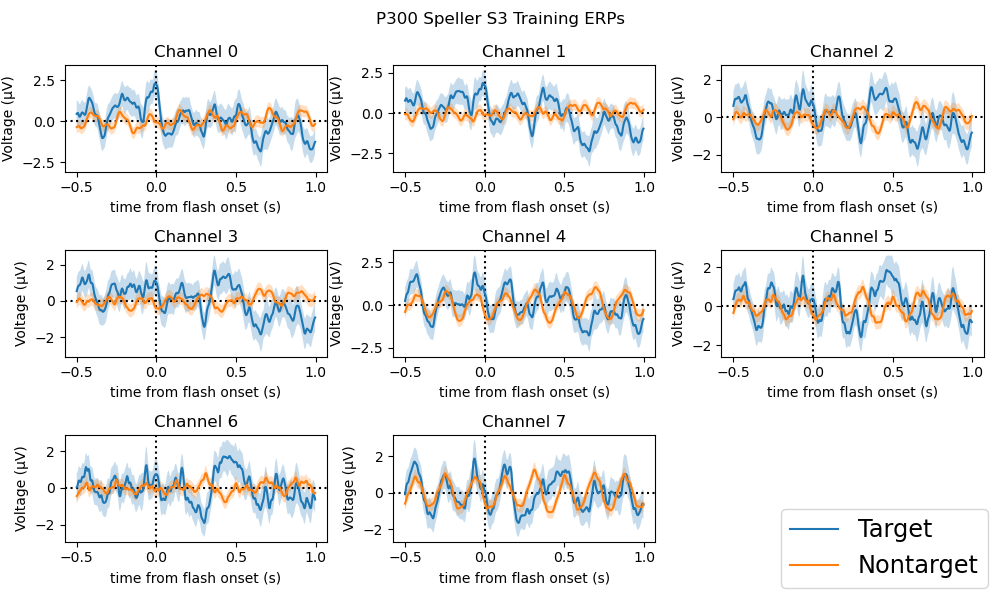
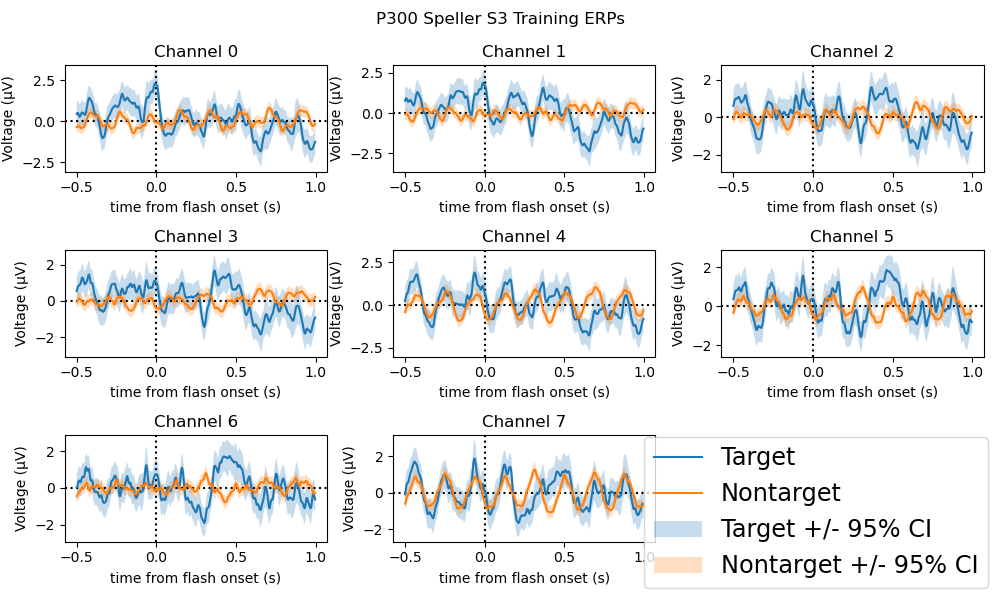
Additional legend labels

diff --git a/plot_p300_data.py b/plot_p300_data.py
@@ -74,19 +74,23 @@ def plot_confidence_intervals(eeg_epochs, erp_times, target_erp, nontarget_erp, 
         channel_plot.axvline(0, color='black', linestyle='dotted')
         channel_plot.axhline(0, color='black', linestyle='dotted')
         
-        # plot target and nontarget erp data in the subplot
+        # plot ERP data in the subplot
         target_handle, = channel_plot.plot(erp_times, target_erp_transpose[channel_index])
+        
         nontarget_handle, = channel_plot.plot(erp_times, nontarget_erp_transpose[channel_index])
         
         # plot confidence intervals
-        channel_plot.fill_between(erp_times,target_erp_transpose[channel_index] - 2 * target_standard_error, target_erp_transpose[channel_index] + 2 * target_standard_error, alpha=0.25)
+        target_confidence_interval_handle = channel_plot.fill_between(erp_times,target_erp_transpose[channel_index] - 2 * target_standard_error, target_erp_transpose[channel_index] + 2 * target_standard_error, alpha=0.25)
         
-        channel_plot.fill_between(erp_times,nontarget_erp_transpose[channel_index] - 2 * nontarget_standard_error, nontarget_erp_transpose[channel_index] + 2 * nontarget_standard_error, alpha=0.25)
+        nontarget_confidence_interval_handle = channel_plot.fill_between(erp_times,nontarget_erp_transpose[channel_index] - 2 * nontarget_standard_error, nontarget_erp_transpose[channel_index] + 2 * nontarget_standard_error, alpha=0.25)
         
         # workaround for legend to only display each entry once
         if channel_index == 0:
             target_handle.set_label('Target')
             nontarget_handle.set_label('Nontarget')
+            target_confidence_interval_handle.set_label('Target +/- 95% CI')
+            nontarget_confidence_interval_handle.set_label('Nontarget +/- 95% CI')
+        
         
         # label each plot's axes and channel number
         channel_plot.set_title(f'Channel {channel_index}')
@@ -196,11 +200,6 @@ def plot_false_discovery_rate(eeg_epochs, erp_times, target_erp, nontarget_erp, 
         target_handle, = channel_plot.plot(erp_times, target_erp_transpose[channel_index])
         nontarget_handle, = channel_plot.plot(erp_times, nontarget_erp_transpose[channel_index])
         
-        # plot confidence intervals
-        channel_plot.fill_between(erp_times,target_erp_transpose[channel_index] - 2 * target_standard_error, target_erp_transpose[channel_index] + 2 * target_standard_error, alpha=0.25)
-        
-        channel_plot.fill_between(erp_times,nontarget_erp_transpose[channel_index] - 2 * nontarget_standard_error, nontarget_erp_transpose[channel_index] + 2 * nontarget_standard_error, alpha=0.25)
-        
         # generate times to plot
         is_significant = np.array(np.where(corrected_p_values[0, :, channel_index] == 1))
         significant_times = []
@@ -209,13 +208,20 @@ def plot_false_discovery_rate(eeg_epochs, erp_times, target_erp, nontarget_erp, 
         significant_count = len(np.array(significant_times))
         
         # plot significant points
-        channel_plot.plot(significant_times, np.zeros(significant_count), 'ko', markersize=3)
+        significance_handle, = channel_plot.plot(significant_times, np.zeros(significant_count), 'ko', markersize=3)
         
+        # plot confidence intervals
+        target_confidence_interval_handle = channel_plot.fill_between(erp_times,target_erp_transpose[channel_index] - 2 * target_standard_error, target_erp_transpose[channel_index] + 2 * target_standard_error, alpha=0.25)
+        
+        nontarget_confidence_interval_handle = channel_plot.fill_between(erp_times,nontarget_erp_transpose[channel_index] - 2 * nontarget_standard_error, nontarget_erp_transpose[channel_index] + 2 * nontarget_standard_error, alpha=0.25)
         
         # workaround for legend to only display each entry once
         if channel_index == 0:
             target_handle.set_label('Target')
             nontarget_handle.set_label('Nontarget')
+            significance_handle.set_label('$p_{FDR}$ < 0.05')
+            target_confidence_interval_handle.set_label('Target +/- 95% CI')
+            nontarget_confidence_interval_handle.set_label('Nontarget +/- 95% CI')
         
         # label each plot's axes and channel number
         channel_plot.set_title(f'Channel {channel_index}')
@@ -224,7 +230,7 @@ def plot_false_discovery_rate(eeg_epochs, erp_times, target_erp, nontarget_erp, 
     
     # formatting
     figure.suptitle(f'P300 Speller S{subject} Training ERPs')
-    figure.legend(loc='lower right', fontsize='xx-large') # legend in space of nonexistent plot 9
+    figure.legend(loc='lower right', fontsize='x-large') # legend in space of nonexistent plot 9
     figure.tight_layout()  # stop axis labels overlapping titles
     
     # save image
@@ -244,7 +250,7 @@ def plot_false_discovery_rate(eeg_epochs, erp_times, target_erp, nontarget_erp, 
 # returns:
     # none?
 
-def multiple_subject_evaluation(subjects=np.arange(3,11), data_directory='P300Data/', epoch_start_time=-0.5, epoch_end_time=1.0, randomization_count=3000):
+def multiple_subject_evaluation(subjects=np.arange(3,11), data_directory='P300Data/', epoch_start_time=-0.5, epoch_end_time=1.0, randomization_count=3000, fdr_threshold=0.05):
     
     for subject in subjects:
         
@@ -270,10 +276,10 @@ def multiple_subject_evaluation(subjects=np.arange(3,11), data_directory='P300Da
             sampled_nontarget_erp[randomization_index,:] = bootstrap_erps(eeg_epochs, is_target_event)[1][:,:]
             
         # find p_values
-        p_values = calculate_p_values(sampled_target_erp, sampled_nontarget_erp,target_erp, nontarget_erp,randomization_count=3000)
+        p_values = calculate_p_values(sampled_target_erp, sampled_nontarget_erp,target_erp, nontarget_erp,randomization_count)
         
         # FDR correction and plotting
-        plot_false_discovery_rate(eeg_epochs, erp_times, target_erp, nontarget_erp, is_target_event, p_values, subject, fdr_threshold = 0.05)
+        plot_false_discovery_rate(eeg_epochs, erp_times, target_erp, nontarget_erp, is_target_event, p_values, subject, fdr_threshold)
         
         # declare an array of zeros to determine significance
         # track number of subjects where a point in time is significant for each channel

diff --git a/test_plot_p300_data.py b/test_plot_p300_data.py
@@ -51,7 +51,7 @@ p_values = calculate_p_values(sampled_target_erp, sampled_nontarget_erp,target_e
 plot_false_discovery_rate(eeg_epochs, erp_times, target_erp, nontarget_erp, is_target_event, p_values, subject=3, fdr_threshold = 0.05)
 
 #%% Multiple subjects comparison
-multiple_subject_evaluation(subjects=np.arange(3,11), data_directory='P300Data/', epoch_start_time=-0.5, epoch_end_time=1.0, randomization_count=3000)
+#multiple_subject_evaluation(subjects=np.arange(3,11), data_directory='P300Data/', epoch_start_time=-0.5, epoch_end_time=1.0, randomization_count=3000)
 
 #%% Spatial map
 
